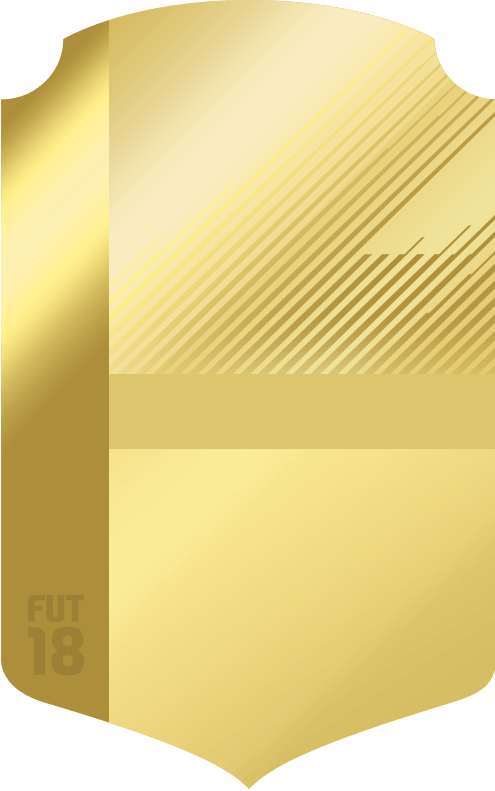
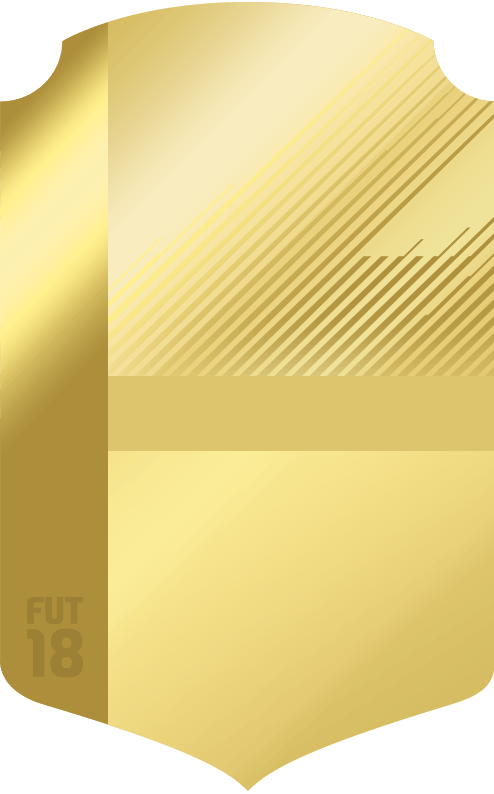
Update player card
Add dynamic card types

diff --git a/src/Components/PlayerCard/PlayerCard.css b/src/Components/PlayerCard/PlayerCard.css
@@ -6,13 +6,24 @@ p{
 
 .container{
     padding: 0;
-    /* background-color: rgba(255,255,255,0.07); */
-    border: solid white 1px;
+    /* background-color: rgba(255,255,255,0.5); */
+    /* border: solid white 1px; */
     margin: 10px;
-    width: 250px;
-    height: 400px;
-    background-image: url('../../Assets/cards/gold2.png');
+    width: 230px;
+    height: 368px;
     background-size: cover;
+}
+
+.gold{
+    background-image: url('../../Assets/cards/gold2.png');
+}
+
+.silver{
+    background-image: url('../../Assets/cards/silver2.png');
+}
+
+.bronze{
+    background-image: url('../../Assets/cards/bronze2.png');
 }
 
 .leftBar{
@@ -63,9 +74,9 @@ p{
 }
 
 .name{
-    height: 37px;
+    height: 34px;
     margin: 0px;
-    padding-top: 5px;
+    padding-top: 4px;
     /* background-color: rgba(0,255,0,0.5); */
     font-size: 20px;
     font-weight: 600;
@@ -77,23 +88,23 @@ p{
     width: 100%;
     /* padding-top:12px;
     padding-left:17px; */
-    padding: 12px 23px 0px 17px;
+    padding: 10px 21px 0px 15px;
 }
 
 .rightStat{
     float: right;
     /* background-color: rgba(0,0,0,0.1); */
-    height: 29px;
+    height: 26px;
     width: 47%;
-    margin-bottom: 8px;
+    margin-bottom: 6px;
 }
 
 .leftStat{
     float: left;
     /* background-color: rgba(0,0,0,0.1); */
-    height: 29px;
+    height: 26px;
     width: 47%;
-    margin-bottom: 8px;
+    margin-bottom: 6px;
 }
 
 .statName{

diff --git a/src/Components/playerCard/playerCard.js b/src/Components/playerCard/playerCard.js
@@ -5,15 +5,31 @@ import './PlayerCard.css';
 let goldCard= require('../../Assets/cards/gold2.png');
 
 export default class PlayerCard extends Component {
+
+  state = {
+    cardType : "",
+  }
+
+  componentDidMount(){
+    this.setCardType(this.props.rating);
+  }
+
+  setCardType( rating ){
+    switch (true) {
+      case ( rating <= 70 ):this.setState({ cardType :"bronze"});break;
+      case ( rating >= 70 && rating <= 80 ):this.setState({ cardType :"silver"});break;
+      case ( rating > 80 && rating <= 90 ):this.setState({ cardType :"gold"});break;
+    }
+  }
   
   render() {
 
     return (
 
-      <div className="container">
+      <div className={"container " + this.state.cardType } >
 
           <div className="leftBar">
-            <p className="rating">93</p>
+            <p className="rating">{this.props.rating}</p>
             <p className="position">RW</p>
             <img className="club" src="https://fifa17.content.easports.com/fifa/fltOnlineAssets/B1BA185F-AD7C-4128-8A64-746DE4EC5A82/2018/fut/items/images/clubbadges/html5/dark/24x24/l241.png" alt=""/>
             <img className="nation" src="https://fifa17.content.easports.com/fifa/fltOnlineAssets/B1BA185F-AD7C-4128-8A64-746DE4EC5A82/2018/fut/items/images/flags/html5/24x14/52.png" alt=""/>

diff --git a/src/App.js b/src/App.js
@@ -11,15 +11,19 @@ class App extends Component {
           <Row  type="flex" justify="center" >
             <PlayerCard  
               name='NEYMAR JR.' 
+              rating={80}
             />            
             <PlayerCard  
               name='L.MESSI' 
+              rating={90}
             />
             <PlayerCard  
               name='M.SALAH' 
+              rating={68}
             />
             <PlayerCard  
               name='PAUL POGBA' 
+              rating={72}
             />                                 
           </Row>
       </div>
